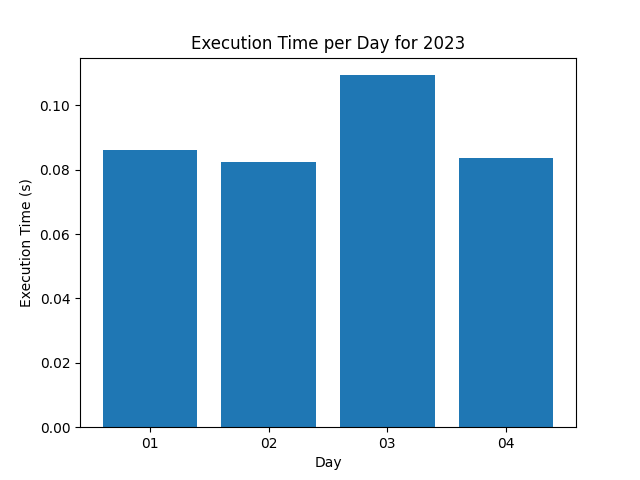
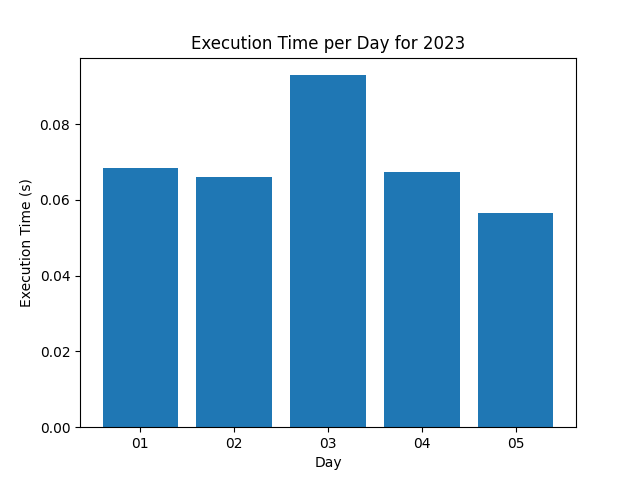
20231205 - Added solution to day_05

diff --git a/2023/day_05/solution.py b/2023/day_05/solution.py
@@ -1,0 +1,106 @@
+from pathlib import Path
+
+SCRIPT_PATH = Path(__file__).resolve().parent
+INPUT_PATH = Path(SCRIPT_PATH, "inputs/input.txt")
+# INPUT_PATH = Path(SCRIPT_PATH, "inputs/example1.txt")
+# INPUT_PATH = Path(SCRIPT_PATH, "inputs/example2.txt")
+
+def parse_input(data):
+    # Split each section of the almanac into a dictionary which each heading of the secion as the key
+    # Then split all lines below each heading into a list as the value of the heading
+    # Return almanac dictionary
+    almanac = {}
+    data_list = [section.split(':') for section in data.split('\n\n')]
+    for section in data_list:
+        almanac[section[0].replace(' map', '')] = [line.split(' ') for line in section[1].strip().split('\n')]
+    return almanac
+
+def check_conversion_map(seed, conversion_map):
+    # This checks the input conversion map and returns the altered value based on the difference between the seed value and source value
+    # If not in the range, return itself
+    for line in conversion_map:
+        if int(seed) >= int(line[1]) and int(seed) < (int(line[1]) + int(line[2])):
+            return (int(line[0]) + (int(seed) - int(line[1])))
+    return int(seed)
+
+def conversion_map_to_range(conversion_map):
+    # Convert the input conversion map into a nested list where each item is a list of start, end, and amount to offset if matched, return sorted nested list
+    # For instance, [50, 98, 2] becomes [98, 99, -48]
+    conversion_list = []
+    for line in conversion_map:
+        conversion_list.append([int(line[1]), (int(line[1]) + int(line[2]) - 1), (int(line[0]) - int(line[1]))])
+    return sorted(conversion_list, key=lambda x: x[0])
+
+def convert_seed_range_list(seed_range, conversion_range):
+    # For part 2, take the seed_range and convert it to a list of ranges based on the conversion_range and return sorted nested list
+    seed_range_list = []
+    curr_value = seed_range[0]
+    for i in range(len(conversion_range)):
+        if curr_value < conversion_range[i][0]:  # If the first entry in conversion_range is higher than lowest seed, add range until that point
+            seed_range_list.append([int(curr_value), (int(conversion_range[i][0] - 1))])
+            curr_value = int(conversion_range[i][0])
+        if curr_value >= int(conversion_range[i][0]) and curr_value <= int(conversion_range[i][1]):  # If between the current conversion range, add the range, unless we are at the end of the seed range
+            max_value = int(conversion_range[i][1]) if not int(seed_range[1]) <= int(conversion_range[i][1]) else int(seed_range[1])  # Set max value to seed range end if conversion range is higher than seed range
+            seed_range_list.append([(curr_value + conversion_range[i][2]), (max_value + conversion_range[i][2])])
+            curr_value = max_value + 1
+        if curr_value - 1 == int(seed_range[1]):  # If we've hit the end of the seed range, break
+            break
+    if curr_value < seed_range[1]:  # If we did not hit the end of the seed range, add the rest of the range
+        seed_range_list.append([curr_value, seed_range[1]])
+    
+    return sorted(seed_range_list, key=lambda x: x[0])
+
+def part1(parsed_data):
+    # Run through the seeds and find the location then return the lowest location number
+    lowest = None
+    for seed in parsed_data['seeds'][0]:
+        curr_soil = seed
+        for cm in parsed_data.keys():
+            if cm != 'seeds':
+                curr_soil = check_conversion_map(curr_soil, parsed_data[cm])
+        print(f"Seed {seed} has a location number of {curr_soil}")
+        if lowest is None or int(curr_soil) < lowest:
+            lowest = int(curr_soil)
+
+    return lowest
+
+def part2(parsed_data):
+    # Get all seed pairs and conversion maps, and run through each seed pair to find the lowest location number within the range
+    # Return the lowest location number of all seed ranges
+    seeds = parsed_data['seeds'][0]
+    lowest = None
+    seed_pairs = [[int(seeds[i]), (int(seeds[i]) + int(seeds[i + 1]) - 1)] for i in range(0, len(seeds), 2)]  # Convert the pairs to a range of seed values
+    conversion_maps = [cm for cm in parsed_data.keys() if cm != 'seeds']
+    conversion_range_dict = {}
+    for cm in conversion_maps:  # Convert the conversion maps into a dict of conversion ranges based on the map
+        conversion_range_dict[cm] = conversion_map_to_range(parsed_data[cm])
+    for seed_range in seed_pairs:
+        curr_seed_range = [seed_range.copy()]  # Convert the first seed pair into a nested list so the future loops will function properly
+        for curr_conv_map in conversion_range_dict.keys():
+            curr_output_list = []
+            for entry in curr_seed_range:
+                output_list = convert_seed_range_list(entry, conversion_range_dict[curr_conv_map])  # Output the new range for each seed range supplied
+                curr_output_list.append(output_list)  
+            curr_output_list = [item for sublist in curr_output_list for item in sublist]  # Make sure output is only a single nested list sorted
+            curr_output_list = sorted(curr_output_list, key=lambda x: x[0])
+            curr_seed_range = curr_output_list.copy()  # Set the curr seed range to the output list and run through the next conversion map
+        print(f"The lowest of seed range {seed_range} is {curr_seed_range[0][0]}")
+
+        if lowest is None or curr_seed_range[0][0] < lowest:
+            lowest = curr_seed_range[0][0]
+        
+    return lowest
+
+if __name__ == "__main__":
+    with open(INPUT_PATH , "r") as f:
+        parsed_data = parse_input(f.read())
+
+    print("--- PART 1 ---")
+    answer1 = part1(parsed_data)
+    
+    print("\n--- PART 2 ---")
+    answer2 = part2(parsed_data)
+
+    print("\n--- ANSWERS ---")
+    print(f"PART1 - The lowest location number is {answer1}")
+    print(f"PART2 - The lowest location number of seed ranges is {answer2}")
